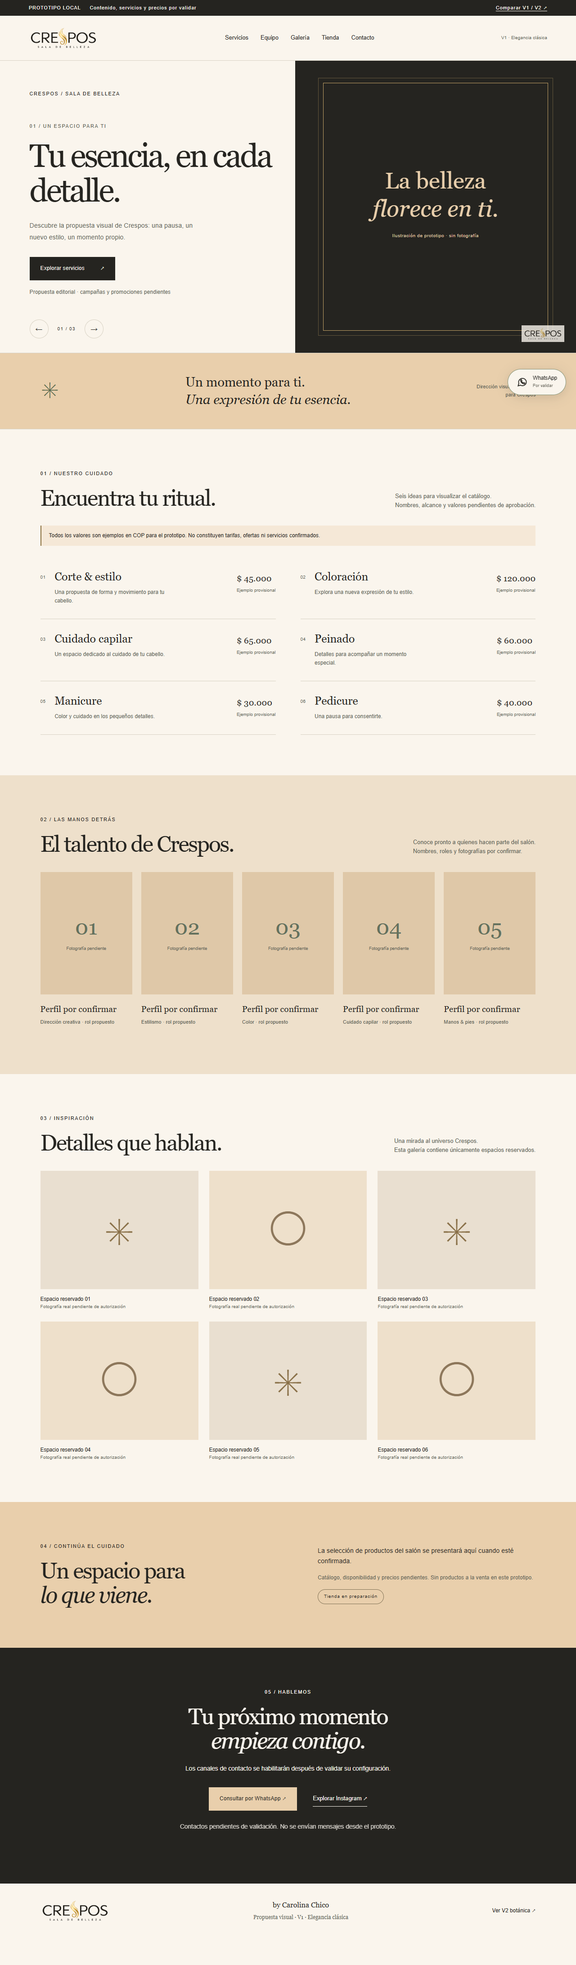
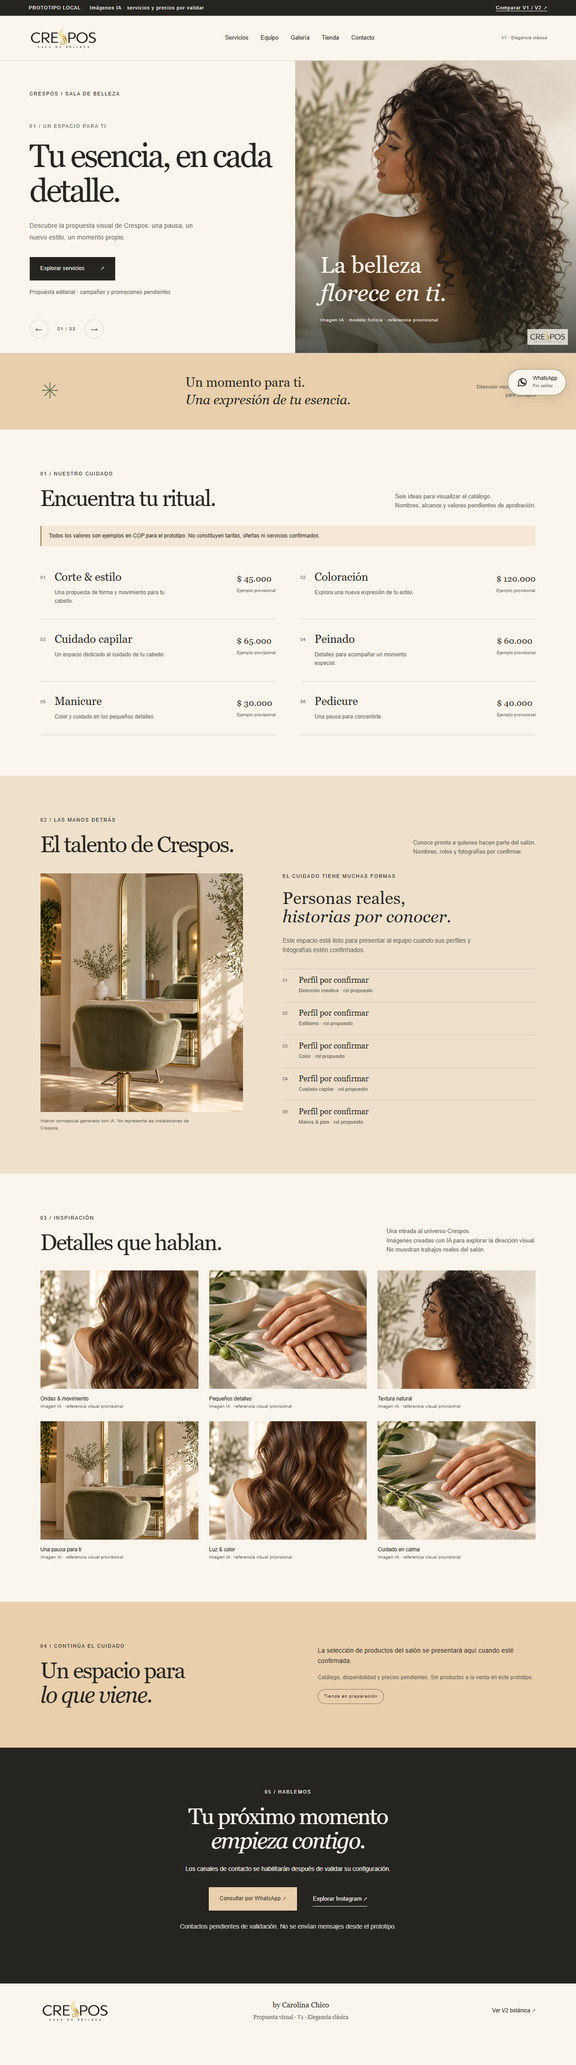
feat: completar propuestas con imágenes editoriales provisionales de IA

diff --git a/propuestas/v2/index.html b/propuestas/v2/index.html
@@ -1,12 +1,12 @@
 <!doctype html>
-<html lang="es" data-theme="botanical"><head><meta charset="utf-8"><meta name="viewport" content="width=device-width,initial-scale=1"><meta name="robots" content="noindex,nofollow"><meta name="description" content="Propuesta visual local de Crespos. Datos pendientes de aprobación."><title>V2 · Elegancia botánica — Crespos</title><link rel="stylesheet" href="../assets/site.css"><script src="../assets/site.js" defer></script></head>
-<body><a class="skip" href="#contenido">Saltar al contenido</a><div class="prototype">PROTOTIPO LOCAL <span>Contenido, servicios y precios por validar</span><a href="../index.html">Comparar V1 / V2 ↗</a></div>
+<html lang="es" data-theme="botanical"><head><meta charset="utf-8"><meta name="viewport" content="width=device-width,initial-scale=1"><meta name="robots" content="noindex,nofollow"><meta name="description" content="Propuesta visual local de Crespos. Datos pendientes de aprobación."><title>V2 · Elegancia botánica — Crespos</title><link rel="stylesheet" href="../assets/site.css"><link rel="stylesheet" href="../assets/imagery.css"><script src="../assets/site.js" defer></script></head>
+<body><a class="skip" href="#contenido">Saltar al contenido</a><div class="prototype">PROTOTIPO LOCAL <span>Imágenes IA · servicios y precios por validar</span><a href="../index.html">Comparar V1 / V2 ↗</a></div>
 <header class="header"><a href="#inicio" aria-label="Crespos, inicio"><img class="logo " src="../../docs/img/logotres-web.webp" width="480" height="160" alt="Crespos Sala de Belleza"></a><button class="menu-toggle" hidden aria-expanded="false" aria-controls="navigation">Menú</button><nav id="navigation" aria-label="Principal"><a href="#servicios">Servicios</a><a href="#equipo">Equipo</a><a href="#galeria">Galería</a><a href="#tienda">Tienda</a><a href="#contacto">Contacto</a></nav><span class="edition">V2 · Elegancia botánica</span></header>
-<main id="contenido"><section class="hero" id="inicio" aria-label="Presentación y promociones"><div class="hero-copy"><p class="kicker">CRESPOS / SALA DE BELLEZA</p><div class="carousel" role="region" aria-roledescription="carrusel" aria-label="Propuestas promocionales"><article class="slide" data-slide><p class="eyebrow">01 / Un espacio para ti</p><h1>Tu esencia, en cada detalle.</h1><p class="intro">Descubre la propuesta visual de Crespos: una pausa, un nuevo estilo, un momento propio.</p><a class="button" href="#servicios">Explorar servicios <span aria-hidden="true">↗</span></a><p class="small">Propuesta editorial · campañas y promociones pendientes</p></article><article class="slide" data-slide><p class="eyebrow">02 / El arte de cuidarte</p><h2 class="secondary-title">Dale espacio a tu estilo.</h2><p class="intro">Aquí se presentará una promoción aprobada por el salón, con sus condiciones y vigencia.</p><a class="button" href="#servicios">Explorar servicios <span aria-hidden="true">↗</span></a><p class="small">Propuesta editorial · campañas y promociones pendientes</p></article><article class="slide" data-slide><p class="eyebrow">03 / Detalles que inspiran</p><h2 class="secondary-title">Belleza a tu manera.</h2><p class="intro">Un espacio reservado para la próxima campaña de Crespos. Contenido por confirmar.</p><a class="button" href="#servicios">Explorar servicios <span aria-hidden="true">↗</span></a><p class="small">Propuesta editorial · campañas y promociones pendientes</p></article></div><div class="carousel-controls" hidden><button data-prev aria-label="Promoción anterior">←</button><p data-counter aria-live="polite" aria-atomic="true">01 / 03</p><button data-next aria-label="Promoción siguiente">→</button></div></div><div class="hero-art"><svg class="botanical" viewBox="0 0 480 620" fill="none" aria-hidden="true"><path d="M230 590C200 450 330 300 250 50M230 500C120 430 75 340 105 270M250 390C370 340 410 240 390 160M263 260C155 210 155 110 185 55"/><g><ellipse cx="137" cy="354" rx="30" ry="72" transform="rotate(-40 137 354)"/><ellipse cx="200" cy="187" rx="27" ry="65" transform="rotate(-25 200 187)"/><ellipse cx="345" cy="284" rx="28" ry="75" transform="rotate(40 345 284)"/><ellipse cx="264" cy="105" rx="23" ry="58" transform="rotate(10 264 105)"/><ellipse cx="246" cy="425" rx="22" ry="56" transform="rotate(25 246 425)"/></g></svg><div class="art-ring"></div><p class="art-caption">La belleza<br><em>florece en ti.</em><small>Ilustración de prototipo · sin fotografía</small></p><img class="logo corner-logo" src="../../docs/img/logotres-web.webp" width="480" height="160" alt="Crespos Sala de Belleza"></div></section>
+<main id="contenido"><section class="hero" id="inicio" aria-label="Presentación y promociones"><div class="hero-copy"><p class="kicker">CRESPOS / SALA DE BELLEZA</p><div class="carousel" role="region" aria-roledescription="carrusel" aria-label="Propuestas promocionales"><article class="slide" data-slide><p class="eyebrow">01 / Un espacio para ti</p><h1>Tu esencia, en cada detalle.</h1><p class="intro">Descubre la propuesta visual de Crespos: una pausa, un nuevo estilo, un momento propio.</p><a class="button" href="#servicios">Explorar servicios <span aria-hidden="true">↗</span></a><p class="small">Propuesta editorial · campañas y promociones pendientes</p></article><article class="slide" data-slide><p class="eyebrow">02 / El arte de cuidarte</p><h2 class="secondary-title">Dale espacio a tu estilo.</h2><p class="intro">Aquí se presentará una promoción aprobada por el salón, con sus condiciones y vigencia.</p><a class="button" href="#servicios">Explorar servicios <span aria-hidden="true">↗</span></a><p class="small">Propuesta editorial · campañas y promociones pendientes</p></article><article class="slide" data-slide><p class="eyebrow">03 / Detalles que inspiran</p><h2 class="secondary-title">Belleza a tu manera.</h2><p class="intro">Un espacio reservado para la próxima campaña de Crespos. Contenido por confirmar.</p><a class="button" href="#servicios">Explorar servicios <span aria-hidden="true">↗</span></a><p class="small">Propuesta editorial · campañas y promociones pendientes</p></article></div><div class="carousel-controls" hidden><button data-prev aria-label="Promoción anterior">←</button><p data-counter aria-live="polite" aria-atomic="true">01 / 03</p><button data-next aria-label="Promoción siguiente">→</button></div></div><div class="hero-art photo-hero"><img class="hero-photo" src="../assets/images/hero-curls.png" width="1024" height="1536" fetchpriority="high" alt="Modelo ficticia con rizos oscuros en una composición editorial botánica, imagen generada con IA"><div class="photo-shade"></div><p class="art-caption">La belleza<br><em>florece en ti.</em><small>Imagen IA · modelo ficticia · referencia provisional</small></p><img class="logo corner-logo" src="../../docs/img/logotres-web.webp" width="480" height="160" alt="Crespos Sala de Belleza"></div></section>
 <div class="manifesto"><span aria-hidden="true">✳</span><p>Un momento para ti.<br><em>Una expresión de tu esencia.</em></p><span class="manifesto-note">Dirección visual propuesta<br>para Crespos</span></div>
 <section id="servicios" class="section"><div class="section-heading"><div><p class="eyebrow">01 / Nuestro cuidado</p><h2>Encuentra tu ritual.</h2></div><p>Seis ideas para visualizar el catálogo.<br>Nombres, alcance y valores pendientes de aprobación.</p></div><p class="notice">Todos los valores son ejemplos en COP para el prototipo. No constituyen tarifas, ofertas ni servicios confirmados.</p><div class="services"><article class="service"><span class="index">01</span><div><h3>Corte &amp; estilo</h3><p>Una propuesta de forma y movimiento para tu cabello.</p></div><p class="price">$ 45.000<small>Ejemplo provisional</small></p></article><article class="service"><span class="index">02</span><div><h3>Coloración</h3><p>Explora una nueva expresión de tu estilo.</p></div><p class="price">$ 120.000<small>Ejemplo provisional</small></p></article><article class="service"><span class="index">03</span><div><h3>Cuidado capilar</h3><p>Un espacio dedicado al cuidado de tu cabello.</p></div><p class="price">$ 65.000<small>Ejemplo provisional</small></p></article><article class="service"><span class="index">04</span><div><h3>Peinado</h3><p>Detalles para acompañar un momento especial.</p></div><p class="price">$ 60.000<small>Ejemplo provisional</small></p></article><article class="service"><span class="index">05</span><div><h3>Manicure</h3><p>Color y cuidado en los pequeños detalles.</p></div><p class="price">$ 30.000<small>Ejemplo provisional</small></p></article><article class="service"><span class="index">06</span><div><h3>Pedicure</h3><p>Una pausa para consentirte.</p></div><p class="price">$ 40.000<small>Ejemplo provisional</small></p></article></div></section>
-<section id="equipo" class="section team-section"><div class="section-heading"><div><p class="eyebrow">02 / Las manos detrás</p><h2>El talento de Crespos.</h2></div><p>Conoce pronto a quienes hacen parte del salón.<br>Nombres, roles y fotografías por confirmar.</p></div><div class="team"><article class="person"><div class="portrait"><span aria-hidden="true">01</span><small>Fotografía pendiente</small></div><h3>Perfil por confirmar</h3><p>Dirección creativa · rol propuesto</p></article><article class="person"><div class="portrait"><span aria-hidden="true">02</span><small>Fotografía pendiente</small></div><h3>Perfil por confirmar</h3><p>Estilismo · rol propuesto</p></article><article class="person"><div class="portrait"><span aria-hidden="true">03</span><small>Fotografía pendiente</small></div><h3>Perfil por confirmar</h3><p>Color · rol propuesto</p></article><article class="person"><div class="portrait"><span aria-hidden="true">04</span><small>Fotografía pendiente</small></div><h3>Perfil por confirmar</h3><p>Cuidado capilar · rol propuesto</p></article><article class="person"><div class="portrait"><span aria-hidden="true">05</span><small>Fotografía pendiente</small></div><h3>Perfil por confirmar</h3><p>Manos &amp; pies · rol propuesto</p></article></div></section>
-<section id="galeria" class="section"><div class="section-heading"><div><p class="eyebrow">03 / Inspiración</p><h2>Detalles que hablan.</h2></div><p>Una mirada al universo Crespos.<br>Esta galería contiene únicamente espacios reservados.</p></div><div class="gallery"><figure class="gallery-item"><div class="gallery-art" aria-hidden="true">✳</div><figcaption>Espacio reservado 01<small>Fotografía real pendiente de autorización</small></figcaption></figure><figure class="gallery-item"><div class="gallery-art" aria-hidden="true">◯</div><figcaption>Espacio reservado 02<small>Fotografía real pendiente de autorización</small></figcaption></figure><figure class="gallery-item"><div class="gallery-art" aria-hidden="true">✳</div><figcaption>Espacio reservado 03<small>Fotografía real pendiente de autorización</small></figcaption></figure><figure class="gallery-item"><div class="gallery-art" aria-hidden="true">◯</div><figcaption>Espacio reservado 04<small>Fotografía real pendiente de autorización</small></figcaption></figure><figure class="gallery-item"><div class="gallery-art" aria-hidden="true">✳</div><figcaption>Espacio reservado 05<small>Fotografía real pendiente de autorización</small></figcaption></figure><figure class="gallery-item"><div class="gallery-art" aria-hidden="true">◯</div><figcaption>Espacio reservado 06<small>Fotografía real pendiente de autorización</small></figcaption></figure></div></section>
+<section id="equipo" class="section team-section"><div class="section-heading"><div><p class="eyebrow">02 / Las manos detrás</p><h2>El talento de Crespos.</h2></div><p>Conoce pronto a quienes hacen parte del salón.<br>Nombres, roles y fotografías por confirmar.</p></div><div class="team-editorial"><figure><img src="../assets/images/salon-concept.png" width="1024" height="1536" loading="lazy" decoding="async" alt="Sillón salvia, espejo arqueado y detalles botánicos en un interior ficticio generado con IA"><figcaption>Interior conceptual generado con IA. No representa las instalaciones de Crespos.</figcaption></figure><div class="team-roles"><p class="eyebrow">El cuidado tiene muchas formas</p><h3>Personas reales,<br><em>historias por conocer.</em></h3><p>Este espacio está listo para presentar al equipo cuando sus perfiles y fotografías estén confirmados.</p><div class="team"><article class="person"><span class="role-number" aria-hidden="true">01</span><h3>Perfil por confirmar</h3><p>Dirección creativa · rol propuesto</p></article><article class="person"><span class="role-number" aria-hidden="true">02</span><h3>Perfil por confirmar</h3><p>Estilismo · rol propuesto</p></article><article class="person"><span class="role-number" aria-hidden="true">03</span><h3>Perfil por confirmar</h3><p>Color · rol propuesto</p></article><article class="person"><span class="role-number" aria-hidden="true">04</span><h3>Perfil por confirmar</h3><p>Cuidado capilar · rol propuesto</p></article><article class="person"><span class="role-number" aria-hidden="true">05</span><h3>Perfil por confirmar</h3><p>Manos &amp; pies · rol propuesto</p></article></div></div></div></section>
+<section id="galeria" class="section"><div class="section-heading"><div><p class="eyebrow">03 / Inspiración</p><h2>Detalles que hablan.</h2></div><p>Una mirada al universo Crespos.<br>Imágenes creadas con IA para explorar la dirección visual.<br>No muestran trabajos reales del salón.</p></div><div class="gallery"><figure class="gallery-item"><img class="gallery-photo crop-0" src="../assets/images/hair-waves.png" width="1536" height="1024" loading="lazy" decoding="async" alt="Detalle de cabello ondulado castaño, imagen generada con IA"><figcaption>Ondas &amp; movimiento<small>Imagen IA · referencia visual provisional</small></figcaption></figure><figure class="gallery-item"><img class="gallery-photo crop-1" src="../assets/images/manicure.png" width="1536" height="1024" loading="lazy" decoding="async" alt="Manos con manicure nude sobre lino, imagen generada con IA"><figcaption>Pequeños detalles<small>Imagen IA · referencia visual provisional</small></figcaption></figure><figure class="gallery-item"><img class="gallery-photo crop-2" src="../assets/images/hero-curls.png" width="1536" height="1024" loading="lazy" decoding="async" alt="Modelo ficticia con cabello rizado, imagen generada con IA"><figcaption>Textura natural<small>Imagen IA · referencia visual provisional</small></figcaption></figure><figure class="gallery-item"><img class="gallery-photo crop-3" src="../assets/images/salon-concept.png" width="1536" height="1024" loading="lazy" decoding="async" alt="Interior conceptual de salón, imagen generada con IA"><figcaption>Una pausa para ti<small>Imagen IA · referencia visual provisional</small></figcaption></figure><figure class="gallery-item"><img class="gallery-photo crop-4" src="../assets/images/hair-waves.png" width="1536" height="1024" loading="lazy" decoding="async" alt="Encuadre de cabello castaño, imagen generada con IA"><figcaption>Luz &amp; color<small>Imagen IA · referencia visual provisional</small></figcaption></figure><figure class="gallery-item"><img class="gallery-photo crop-5" src="../assets/images/manicure.png" width="1536" height="1024" loading="lazy" decoding="async" alt="Detalle de manos y elementos botánicos, imagen generada con IA"><figcaption>Cuidado en calma<small>Imagen IA · referencia visual provisional</small></figcaption></figure></div></section>
 <section id="tienda" class="shop section"><div><p class="eyebrow">04 / Continúa el cuidado</p><h2>Un espacio para<br><em>lo que viene.</em></h2></div><div><p>La selección de productos del salón se presentará aquí cuando esté confirmada.</p><p class="small">Catálogo, disponibilidad y precios pendientes. Sin productos a la venta en este prototipo.</p><span class="tag">Tienda en preparación</span></div></section>
 <section id="contacto" class="contact section"><p class="eyebrow">05 / Hablemos</p><h2>Tu próximo momento<br><em>empieza contigo.</em></h2><p>Los canales de contacto se habilitarán después de validar su configuración.</p><div class="contact-actions"><a class="button" data-contact="whatsapp" aria-disabled="true" role="link" tabindex="0">Consultar por WhatsApp ↗</a><a class="text-link" data-contact="instagram" aria-disabled="true" role="link" tabindex="0">Explorar Instagram ↗</a></div><p id="contact-status" class="small" role="status">Contactos pendientes de validación. No se envían mensajes desde el prototipo.</p></section></main>
 <footer><a href="#inicio" aria-label="Crespos, volver al inicio"><img class="logo " src="../../docs/img/logotres-web.webp" width="480" height="160" alt="Crespos Sala de Belleza"></a><p>by Carolina Chico<br><small>Propuesta visual · V2 · Elegancia botánica</small></p><a href="../v1/index.html">Ver V1 clásica ↗</a></footer>

diff --git a/propuestas/v1/index.html b/propuestas/v1/index.html
@@ -1,12 +1,12 @@
 <!doctype html>
-<html lang="es" data-theme="classic"><head><meta charset="utf-8"><meta name="viewport" content="width=device-width,initial-scale=1"><meta name="robots" content="noindex,nofollow"><meta name="description" content="Propuesta visual local de Crespos. Datos pendientes de aprobación."><title>V1 · Elegancia clásica — Crespos</title><link rel="stylesheet" href="../assets/site.css"><script src="../assets/site.js" defer></script></head>
-<body><a class="skip" href="#contenido">Saltar al contenido</a><div class="prototype">PROTOTIPO LOCAL <span>Contenido, servicios y precios por validar</span><a href="../index.html">Comparar V1 / V2 ↗</a></div>
+<html lang="es" data-theme="classic"><head><meta charset="utf-8"><meta name="viewport" content="width=device-width,initial-scale=1"><meta name="robots" content="noindex,nofollow"><meta name="description" content="Propuesta visual local de Crespos. Datos pendientes de aprobación."><title>V1 · Elegancia clásica — Crespos</title><link rel="stylesheet" href="../assets/site.css"><link rel="stylesheet" href="../assets/imagery.css"><script src="../assets/site.js" defer></script></head>
+<body><a class="skip" href="#contenido">Saltar al contenido</a><div class="prototype">PROTOTIPO LOCAL <span>Imágenes IA · servicios y precios por validar</span><a href="../index.html">Comparar V1 / V2 ↗</a></div>
 <header class="header"><a href="#inicio" aria-label="Crespos, inicio"><img class="logo " src="../../docs/img/logotres-web.webp" width="480" height="160" alt="Crespos Sala de Belleza"></a><button class="menu-toggle" hidden aria-expanded="false" aria-controls="navigation">Menú</button><nav id="navigation" aria-label="Principal"><a href="#servicios">Servicios</a><a href="#equipo">Equipo</a><a href="#galeria">Galería</a><a href="#tienda">Tienda</a><a href="#contacto">Contacto</a></nav><span class="edition">V1 · Elegancia clásica</span></header>
-<main id="contenido"><section class="hero" id="inicio" aria-label="Presentación y promociones"><div class="hero-copy"><p class="kicker">CRESPOS / SALA DE BELLEZA</p><div class="carousel" role="region" aria-roledescription="carrusel" aria-label="Propuestas promocionales"><article class="slide" data-slide><p class="eyebrow">01 / Un espacio para ti</p><h1>Tu esencia, en cada detalle.</h1><p class="intro">Descubre la propuesta visual de Crespos: una pausa, un nuevo estilo, un momento propio.</p><a class="button" href="#servicios">Explorar servicios <span aria-hidden="true">↗</span></a><p class="small">Propuesta editorial · campañas y promociones pendientes</p></article><article class="slide" data-slide><p class="eyebrow">02 / El arte de cuidarte</p><h2 class="secondary-title">Dale espacio a tu estilo.</h2><p class="intro">Aquí se presentará una promoción aprobada por el salón, con sus condiciones y vigencia.</p><a class="button" href="#servicios">Explorar servicios <span aria-hidden="true">↗</span></a><p class="small">Propuesta editorial · campañas y promociones pendientes</p></article><article class="slide" data-slide><p class="eyebrow">03 / Detalles que inspiran</p><h2 class="secondary-title">Belleza a tu manera.</h2><p class="intro">Un espacio reservado para la próxima campaña de Crespos. Contenido por confirmar.</p><a class="button" href="#servicios">Explorar servicios <span aria-hidden="true">↗</span></a><p class="small">Propuesta editorial · campañas y promociones pendientes</p></article></div><div class="carousel-controls" hidden><button data-prev aria-label="Promoción anterior">←</button><p data-counter aria-live="polite" aria-atomic="true">01 / 03</p><button data-next aria-label="Promoción siguiente">→</button></div></div><div class="hero-art"><svg class="botanical" viewBox="0 0 480 620" fill="none" aria-hidden="true"><path d="M230 590C200 450 330 300 250 50M230 500C120 430 75 340 105 270M250 390C370 340 410 240 390 160M263 260C155 210 155 110 185 55"/><g><ellipse cx="137" cy="354" rx="30" ry="72" transform="rotate(-40 137 354)"/><ellipse cx="200" cy="187" rx="27" ry="65" transform="rotate(-25 200 187)"/><ellipse cx="345" cy="284" rx="28" ry="75" transform="rotate(40 345 284)"/><ellipse cx="264" cy="105" rx="23" ry="58" transform="rotate(10 264 105)"/><ellipse cx="246" cy="425" rx="22" ry="56" transform="rotate(25 246 425)"/></g></svg><div class="art-ring"></div><p class="art-caption">La belleza<br><em>florece en ti.</em><small>Ilustración de prototipo · sin fotografía</small></p><img class="logo corner-logo" src="../../docs/img/logotres-web.webp" width="480" height="160" alt="Crespos Sala de Belleza"></div></section>
+<main id="contenido"><section class="hero" id="inicio" aria-label="Presentación y promociones"><div class="hero-copy"><p class="kicker">CRESPOS / SALA DE BELLEZA</p><div class="carousel" role="region" aria-roledescription="carrusel" aria-label="Propuestas promocionales"><article class="slide" data-slide><p class="eyebrow">01 / Un espacio para ti</p><h1>Tu esencia, en cada detalle.</h1><p class="intro">Descubre la propuesta visual de Crespos: una pausa, un nuevo estilo, un momento propio.</p><a class="button" href="#servicios">Explorar servicios <span aria-hidden="true">↗</span></a><p class="small">Propuesta editorial · campañas y promociones pendientes</p></article><article class="slide" data-slide><p class="eyebrow">02 / El arte de cuidarte</p><h2 class="secondary-title">Dale espacio a tu estilo.</h2><p class="intro">Aquí se presentará una promoción aprobada por el salón, con sus condiciones y vigencia.</p><a class="button" href="#servicios">Explorar servicios <span aria-hidden="true">↗</span></a><p class="small">Propuesta editorial · campañas y promociones pendientes</p></article><article class="slide" data-slide><p class="eyebrow">03 / Detalles que inspiran</p><h2 class="secondary-title">Belleza a tu manera.</h2><p class="intro">Un espacio reservado para la próxima campaña de Crespos. Contenido por confirmar.</p><a class="button" href="#servicios">Explorar servicios <span aria-hidden="true">↗</span></a><p class="small">Propuesta editorial · campañas y promociones pendientes</p></article></div><div class="carousel-controls" hidden><button data-prev aria-label="Promoción anterior">←</button><p data-counter aria-live="polite" aria-atomic="true">01 / 03</p><button data-next aria-label="Promoción siguiente">→</button></div></div><div class="hero-art photo-hero"><img class="hero-photo" src="../assets/images/hero-curls.png" width="1024" height="1536" fetchpriority="high" alt="Modelo ficticia con rizos oscuros en una composición editorial botánica, imagen generada con IA"><div class="photo-shade"></div><p class="art-caption">La belleza<br><em>florece en ti.</em><small>Imagen IA · modelo ficticia · referencia provisional</small></p><img class="logo corner-logo" src="../../docs/img/logotres-web.webp" width="480" height="160" alt="Crespos Sala de Belleza"></div></section>
 <div class="manifesto"><span aria-hidden="true">✳</span><p>Un momento para ti.<br><em>Una expresión de tu esencia.</em></p><span class="manifesto-note">Dirección visual propuesta<br>para Crespos</span></div>
 <section id="servicios" class="section"><div class="section-heading"><div><p class="eyebrow">01 / Nuestro cuidado</p><h2>Encuentra tu ritual.</h2></div><p>Seis ideas para visualizar el catálogo.<br>Nombres, alcance y valores pendientes de aprobación.</p></div><p class="notice">Todos los valores son ejemplos en COP para el prototipo. No constituyen tarifas, ofertas ni servicios confirmados.</p><div class="services"><article class="service"><span class="index">01</span><div><h3>Corte &amp; estilo</h3><p>Una propuesta de forma y movimiento para tu cabello.</p></div><p class="price">$ 45.000<small>Ejemplo provisional</small></p></article><article class="service"><span class="index">02</span><div><h3>Coloración</h3><p>Explora una nueva expresión de tu estilo.</p></div><p class="price">$ 120.000<small>Ejemplo provisional</small></p></article><article class="service"><span class="index">03</span><div><h3>Cuidado capilar</h3><p>Un espacio dedicado al cuidado de tu cabello.</p></div><p class="price">$ 65.000<small>Ejemplo provisional</small></p></article><article class="service"><span class="index">04</span><div><h3>Peinado</h3><p>Detalles para acompañar un momento especial.</p></div><p class="price">$ 60.000<small>Ejemplo provisional</small></p></article><article class="service"><span class="index">05</span><div><h3>Manicure</h3><p>Color y cuidado en los pequeños detalles.</p></div><p class="price">$ 30.000<small>Ejemplo provisional</small></p></article><article class="service"><span class="index">06</span><div><h3>Pedicure</h3><p>Una pausa para consentirte.</p></div><p class="price">$ 40.000<small>Ejemplo provisional</small></p></article></div></section>
-<section id="equipo" class="section team-section"><div class="section-heading"><div><p class="eyebrow">02 / Las manos detrás</p><h2>El talento de Crespos.</h2></div><p>Conoce pronto a quienes hacen parte del salón.<br>Nombres, roles y fotografías por confirmar.</p></div><div class="team"><article class="person"><div class="portrait"><span aria-hidden="true">01</span><small>Fotografía pendiente</small></div><h3>Perfil por confirmar</h3><p>Dirección creativa · rol propuesto</p></article><article class="person"><div class="portrait"><span aria-hidden="true">02</span><small>Fotografía pendiente</small></div><h3>Perfil por confirmar</h3><p>Estilismo · rol propuesto</p></article><article class="person"><div class="portrait"><span aria-hidden="true">03</span><small>Fotografía pendiente</small></div><h3>Perfil por confirmar</h3><p>Color · rol propuesto</p></article><article class="person"><div class="portrait"><span aria-hidden="true">04</span><small>Fotografía pendiente</small></div><h3>Perfil por confirmar</h3><p>Cuidado capilar · rol propuesto</p></article><article class="person"><div class="portrait"><span aria-hidden="true">05</span><small>Fotografía pendiente</small></div><h3>Perfil por confirmar</h3><p>Manos &amp; pies · rol propuesto</p></article></div></section>
-<section id="galeria" class="section"><div class="section-heading"><div><p class="eyebrow">03 / Inspiración</p><h2>Detalles que hablan.</h2></div><p>Una mirada al universo Crespos.<br>Esta galería contiene únicamente espacios reservados.</p></div><div class="gallery"><figure class="gallery-item"><div class="gallery-art" aria-hidden="true">✳</div><figcaption>Espacio reservado 01<small>Fotografía real pendiente de autorización</small></figcaption></figure><figure class="gallery-item"><div class="gallery-art" aria-hidden="true">◯</div><figcaption>Espacio reservado 02<small>Fotografía real pendiente de autorización</small></figcaption></figure><figure class="gallery-item"><div class="gallery-art" aria-hidden="true">✳</div><figcaption>Espacio reservado 03<small>Fotografía real pendiente de autorización</small></figcaption></figure><figure class="gallery-item"><div class="gallery-art" aria-hidden="true">◯</div><figcaption>Espacio reservado 04<small>Fotografía real pendiente de autorización</small></figcaption></figure><figure class="gallery-item"><div class="gallery-art" aria-hidden="true">✳</div><figcaption>Espacio reservado 05<small>Fotografía real pendiente de autorización</small></figcaption></figure><figure class="gallery-item"><div class="gallery-art" aria-hidden="true">◯</div><figcaption>Espacio reservado 06<small>Fotografía real pendiente de autorización</small></figcaption></figure></div></section>
+<section id="equipo" class="section team-section"><div class="section-heading"><div><p class="eyebrow">02 / Las manos detrás</p><h2>El talento de Crespos.</h2></div><p>Conoce pronto a quienes hacen parte del salón.<br>Nombres, roles y fotografías por confirmar.</p></div><div class="team-editorial"><figure><img src="../assets/images/salon-concept.png" width="1024" height="1536" loading="lazy" decoding="async" alt="Sillón salvia, espejo arqueado y detalles botánicos en un interior ficticio generado con IA"><figcaption>Interior conceptual generado con IA. No representa las instalaciones de Crespos.</figcaption></figure><div class="team-roles"><p class="eyebrow">El cuidado tiene muchas formas</p><h3>Personas reales,<br><em>historias por conocer.</em></h3><p>Este espacio está listo para presentar al equipo cuando sus perfiles y fotografías estén confirmados.</p><div class="team"><article class="person"><span class="role-number" aria-hidden="true">01</span><h3>Perfil por confirmar</h3><p>Dirección creativa · rol propuesto</p></article><article class="person"><span class="role-number" aria-hidden="true">02</span><h3>Perfil por confirmar</h3><p>Estilismo · rol propuesto</p></article><article class="person"><span class="role-number" aria-hidden="true">03</span><h3>Perfil por confirmar</h3><p>Color · rol propuesto</p></article><article class="person"><span class="role-number" aria-hidden="true">04</span><h3>Perfil por confirmar</h3><p>Cuidado capilar · rol propuesto</p></article><article class="person"><span class="role-number" aria-hidden="true">05</span><h3>Perfil por confirmar</h3><p>Manos &amp; pies · rol propuesto</p></article></div></div></div></section>
+<section id="galeria" class="section"><div class="section-heading"><div><p class="eyebrow">03 / Inspiración</p><h2>Detalles que hablan.</h2></div><p>Una mirada al universo Crespos.<br>Imágenes creadas con IA para explorar la dirección visual.<br>No muestran trabajos reales del salón.</p></div><div class="gallery"><figure class="gallery-item"><img class="gallery-photo crop-0" src="../assets/images/hair-waves.png" width="1536" height="1024" loading="lazy" decoding="async" alt="Detalle de cabello ondulado castaño, imagen generada con IA"><figcaption>Ondas &amp; movimiento<small>Imagen IA · referencia visual provisional</small></figcaption></figure><figure class="gallery-item"><img class="gallery-photo crop-1" src="../assets/images/manicure.png" width="1536" height="1024" loading="lazy" decoding="async" alt="Manos con manicure nude sobre lino, imagen generada con IA"><figcaption>Pequeños detalles<small>Imagen IA · referencia visual provisional</small></figcaption></figure><figure class="gallery-item"><img class="gallery-photo crop-2" src="../assets/images/hero-curls.png" width="1536" height="1024" loading="lazy" decoding="async" alt="Modelo ficticia con cabello rizado, imagen generada con IA"><figcaption>Textura natural<small>Imagen IA · referencia visual provisional</small></figcaption></figure><figure class="gallery-item"><img class="gallery-photo crop-3" src="../assets/images/salon-concept.png" width="1536" height="1024" loading="lazy" decoding="async" alt="Interior conceptual de salón, imagen generada con IA"><figcaption>Una pausa para ti<small>Imagen IA · referencia visual provisional</small></figcaption></figure><figure class="gallery-item"><img class="gallery-photo crop-4" src="../assets/images/hair-waves.png" width="1536" height="1024" loading="lazy" decoding="async" alt="Encuadre de cabello castaño, imagen generada con IA"><figcaption>Luz &amp; color<small>Imagen IA · referencia visual provisional</small></figcaption></figure><figure class="gallery-item"><img class="gallery-photo crop-5" src="../assets/images/manicure.png" width="1536" height="1024" loading="lazy" decoding="async" alt="Detalle de manos y elementos botánicos, imagen generada con IA"><figcaption>Cuidado en calma<small>Imagen IA · referencia visual provisional</small></figcaption></figure></div></section>
 <section id="tienda" class="shop section"><div><p class="eyebrow">04 / Continúa el cuidado</p><h2>Un espacio para<br><em>lo que viene.</em></h2></div><div><p>La selección de productos del salón se presentará aquí cuando esté confirmada.</p><p class="small">Catálogo, disponibilidad y precios pendientes. Sin productos a la venta en este prototipo.</p><span class="tag">Tienda en preparación</span></div></section>
 <section id="contacto" class="contact section"><p class="eyebrow">05 / Hablemos</p><h2>Tu próximo momento<br><em>empieza contigo.</em></h2><p>Los canales de contacto se habilitarán después de validar su configuración.</p><div class="contact-actions"><a class="button" data-contact="whatsapp" aria-disabled="true" role="link" tabindex="0">Consultar por WhatsApp ↗</a><a class="text-link" data-contact="instagram" aria-disabled="true" role="link" tabindex="0">Explorar Instagram ↗</a></div><p id="contact-status" class="small" role="status">Contactos pendientes de validación. No se envían mensajes desde el prototipo.</p></section></main>
 <footer><a href="#inicio" aria-label="Crespos, volver al inicio"><img class="logo " src="../../docs/img/logotres-web.webp" width="480" height="160" alt="Crespos Sala de Belleza"></a><p>by Carolina Chico<br><small>Propuesta visual · V1 · Elegancia clásica</small></p><a href="../v2/index.html">Ver V2 botánica ↗</a></footer>

diff --git a/propuestas/assets/imagery.css b/propuestas/assets/imagery.css
@@ -1,0 +1,1 @@
+.hero-art.photo-hero{background:#b5ad9e;isolation:isolate}.hero-photo{position:absolute;inset:0;width:100%;height:100%;object-fit:cover;object-position:center 38%;z-index:-2}.photo-shade{position:absolute;inset:0;background:linear-gradient(0deg,rgba(25,30,23,.74),transparent 60%);z-index:-1}.photo-hero .art-caption{align-self:end;justify-self:start;text-align:left;color:#faf5ed;padding:0 9% 65px;margin:0;font-size:clamp(2.6rem,4vw,4.6rem);text-shadow:0 2px 20px #0003}.photo-hero .art-caption small{color:#faf5ed;max-width:300px;font-size:.65rem}.photo-hero .corner-logo{background:#faf5ede8;padding:6px;opacity:1;right:18px;bottom:18px;width:90px}.gallery-photo{display:block;width:100%;aspect-ratio:4/3;height:auto;object-fit:cover;background:#e5e3d7}.crop-2{object-position:center 30%}.crop-3{object-position:center 50%}.crop-4{object-position:right center}.crop-5{object-position:left center}.team-editorial{display:grid;grid-template-columns:.8fr 1fr;gap:8%;align-items:center}.team-editorial>figure{margin:0}.team-editorial>figure img{display:block;width:100%;height:530px;object-fit:cover;border-radius:180px 180px 0 0}.team-editorial figcaption{font-size:.65rem;color:var(--muted);margin-top:12px;max-width:370px}.team-roles>h3{font-size:clamp(2.1rem,3vw,3.4rem);margin-bottom:22px}.team-roles>p:not(.eyebrow){font-size:.85rem;max-width:440px;color:var(--muted)}.team-roles .team{display:block;margin-top:30px}.team-roles .person{position:relative;border-top:1px solid #c7cabd;padding:15px 0 15px 36px}.team-roles .person h3{font-size:1.1rem}.team-roles .person p{margin:5px 0 0}.role-number{position:absolute;left:0;top:17px;font-size:.65rem;color:var(--muted)}[data-theme=classic] .team-editorial>figure img{border-radius:0}[data-theme=classic] .photo-hero .art-caption small{color:#faf5ed}@media(max-width:700px){.hero-art.photo-hero{min-height:510px}.photo-hero .art-caption{padding-bottom:70px;font-size:3rem}.team-editorial{grid-template-columns:1fr;gap:35px}.team-editorial>figure img{height:400px;border-radius:150px 150px 0 0}.gallery-photo{aspect-ratio:3/4}.gallery-item figcaption{font-size:.75rem}.gallery-item small{font-size:.65rem}}

diff --git a/propuestas/assets/images/GENERACION.md b/propuestas/assets/images/GENERACION.md
@@ -1,0 +1,19 @@
+# Imágenes provisionales · 16 de octubre de 2026
+
+Generadas con la herramienta integrada image_gen (sin CLI). Autorización: solicitud del usuario de usar imágenes provisionales propias. No son fotos de Crespos, sus clientes, trabajos, instalaciones ni profesionales. Archivos PNG locales; los encuadres se ajustan con CSS sin alterar los originales. Dos imágenes se reutilizan en la galería. Sustituir o aprobar antes de una publicación comercial.
+
+## hero-curls.png
+
+Use case: photorealistic-natural. Asset type: beauty salon website hero, portrait photograph. Create a sophisticated editorial photograph of a fictional adult woman with voluminous natural dark curly hair, shown from behind and slight profile, cream linen clothing, elegant neutral ivory studio background, a soft out of focus sage botanical branch, warm champagne daylight, natural realistic hair texture, understated luxury beauty campaign. Composition medium portrait, hair is primary focus, generous breathing room. Palette ivory champagne muted sage charcoal. No text, no logos, no watermark, no collage. This is a conceptual stock-style AI image, not a real salon client.
+
+## hair-waves.png
+
+Use case: photorealistic-natural. Asset type: beauty website gallery editorial. Close-up rear view of a fictional adult woman's glossy chestnut wavy hair draped over a cream linen shoulder, softly lit ivory salon-like studio background with blurred sage foliage, premium beauty editorial, realistic natural individual strands, warm champagne light, clean elegant composition, horizontal photograph. No text no brand no logo no watermark no collage. Conceptual image, not actual salon work.
+
+## manicure.png
+
+Use case: photorealistic-natural. Asset type: beauty website gallery editorial. Elegant close-up still life of two anatomically natural adult feminine hands with short oval nude champagne manicure gently resting on ivory linen beside a small olive branch and cream ceramic bowl. Warm daylight, sage and ivory palette, luxury understated botanical beauty editorial, horizontal photograph. No text no logos no branded products no watermark no collage. Conceptual image, not actual salon work.
+
+## salon-concept.png
+
+Use case: photorealistic-natural. Asset type: conceptual salon team section image. Editorial photograph of a beautiful empty hair styling workstation: sculptural sage velvet salon chair, tall arched mirror with thin brushed brass frame, ivory plaster walls, a small olive branch in ceramic vase, warm daylight, understated botanical elegance. Vertical composition. No people, no text, no logo, no branded products, no watermark. Fictional interior for visual inspiration, not a photograph of actual Crespos premises.

diff --git a/propuestas/README.md b/propuestas/README.md
@@ -12,9 +12,9 @@ Preparado el 16 de octubre de 2026. **Solo local; no se ha publicado ni subido a
 
 ## Revisión
 
-Abrir `propuestas/index.html` para comparar. V2 es la propuesta principal: marfil, champaña, dorado, salvia, carbón y una ilustración botánica propia en SVG. V1 es una alternativa nueva de elegancia clásica, con marcos geométricos y más contraste. Ambas comparten estructura y datos para comparar la dirección visual. No se ha renombrado la web previa como V1 ni sobrescrito su trabajo.
+Abrir `propuestas/index.html` para comparar. V2 es la propuesta principal: marfil, champaña, dorado, salvia, carbón e imágenes editoriales botánicas generadas con IA. V1 es una alternativa nueva de elegancia clásica, con tonos champaña y más contraste. Ambas comparten estructura, imágenes y datos para comparar la dirección visual. No se ha renombrado la web previa como V1 ni sobrescrito su trabajo.
 
-Se reutiliza el logo aportado en `docs/img/logotres-web.webp`: cabecera, esquina inferior de portada y pie. No se cargan fuentes, fotografías ni servicios externos. Las seis imágenes de galería y las cinco del equipo son espacios reservados explícitos. No se reutilizan las fotos de Instagram existentes porque no se verificó autorización para estas propuestas.
+Se reutiliza el logo aportado en `docs/img/logotres-web.webp`: cabecera, esquina inferior de portada y pie. No se cargan fuentes, fotografías ni servicios externos. Por solicitud del usuario, se añadieron cuatro imágenes provisionales con la herramienta integrada de generación de imágenes: rizos, ondas, manicure e interior conceptual. Se sirven desde `assets/images/`; portada y galería las identifican como IA. La galería reutiliza dos imágenes con encuadres diferentes. El interior es ficticio, no representa el salón real; la sección del equipo conserva perfiles sin asignarles rostros ficticios. Los prompts completos y las fuentes están en `assets/images/GENERACION.md`. No se reutilizan las fotos de Instagram existentes porque no se verificó autorización para estas propuestas.
 
 Los seis nombres, descripciones y valores de servicios son **ejemplos de diseño no aprobados**, en COP provisional. Los roles del equipo son propuestas; no se atribuyen a personas. No hay testimonios, promociones comerciales con descuentos, productos, pagos, formularios ni reservas reales. La tienda es un estado vacío.
 
